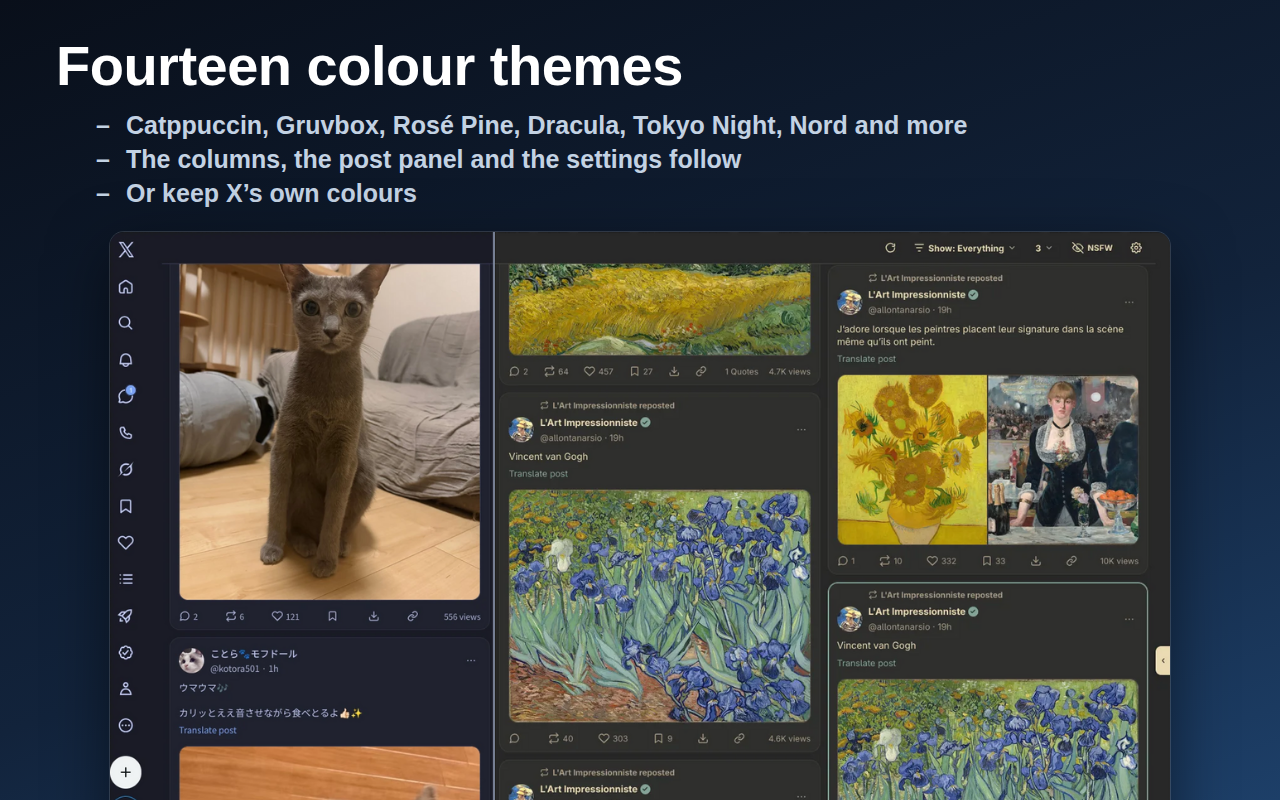
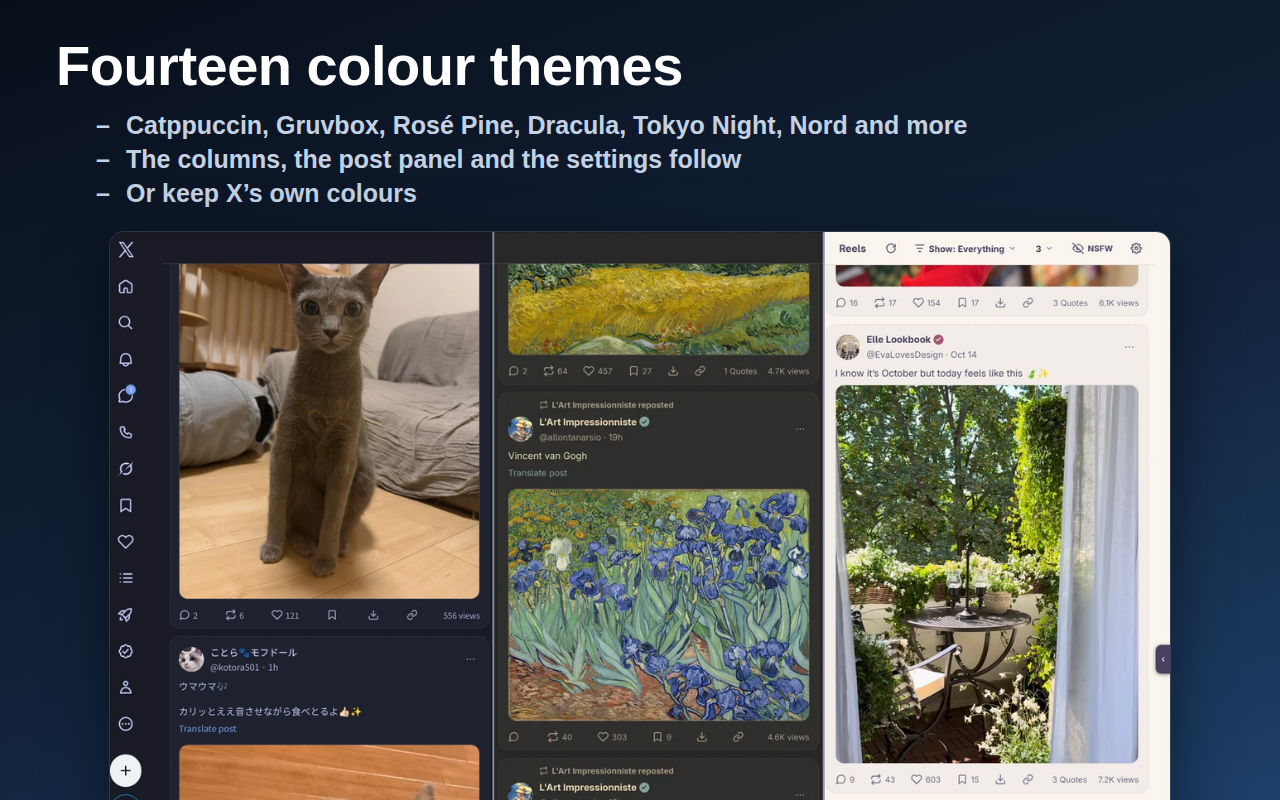
Store: the themes slide shows three themes side by side (cats, paintings, a light one)
Claude-Session: https://claude.ai/code/session_018kEDBPkK9jgvVfS9DEM5ks

diff --git a/store/listing.md b/store/listing.md
@@ -71,7 +71,7 @@ Columns on Home, Search, Lists, Bookmarks and profiles; a post panel with its pi
 4. `04-reply-tools.png` Reply with pictures and emoji, from the comment box in the panel.
 5. `05-media-wall.png` Media tabs as a gallery.
 6. `06-keys.png` Browse with your keyboard.
-7. `07-themes.png` Fourteen colour themes (two of them side by side: cats in one, paintings in another).
+7. `07-themes.png` Fourteen colour themes (three of them side by side: cats, paintings and a light one).
 8. `08-photo-viewer.png` Photos and video, done properly: the viewer with Download and Copy link.
 (Not in the slides, still in `store/screenshots/`: the filters, the room, the starting points (the welcome page), the settings page and the settings in a panel.)
 
